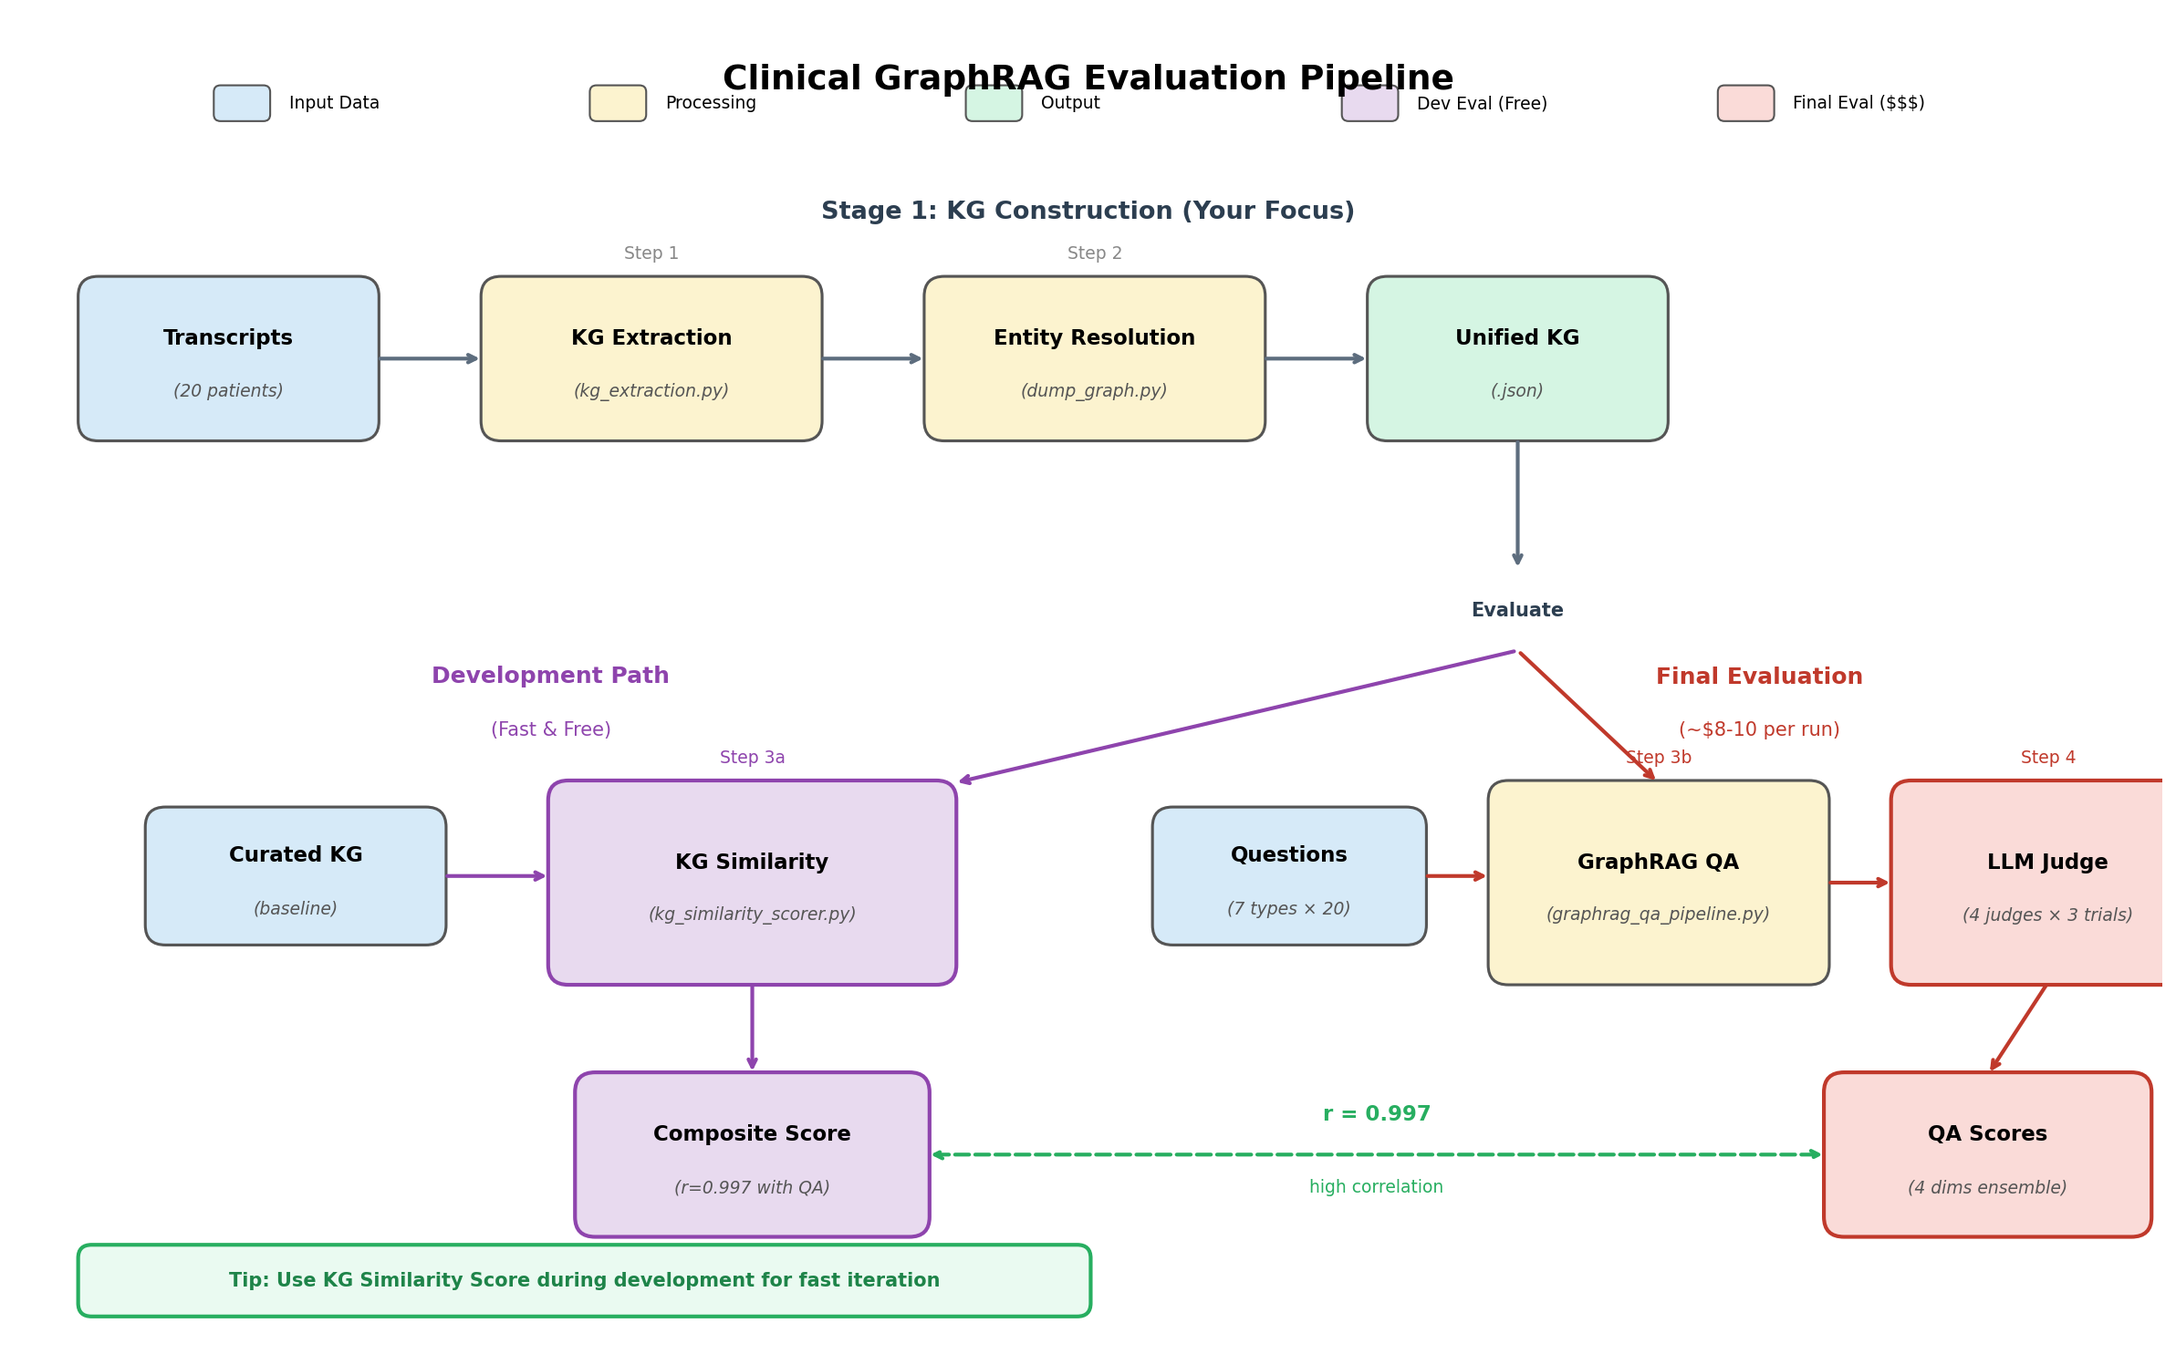
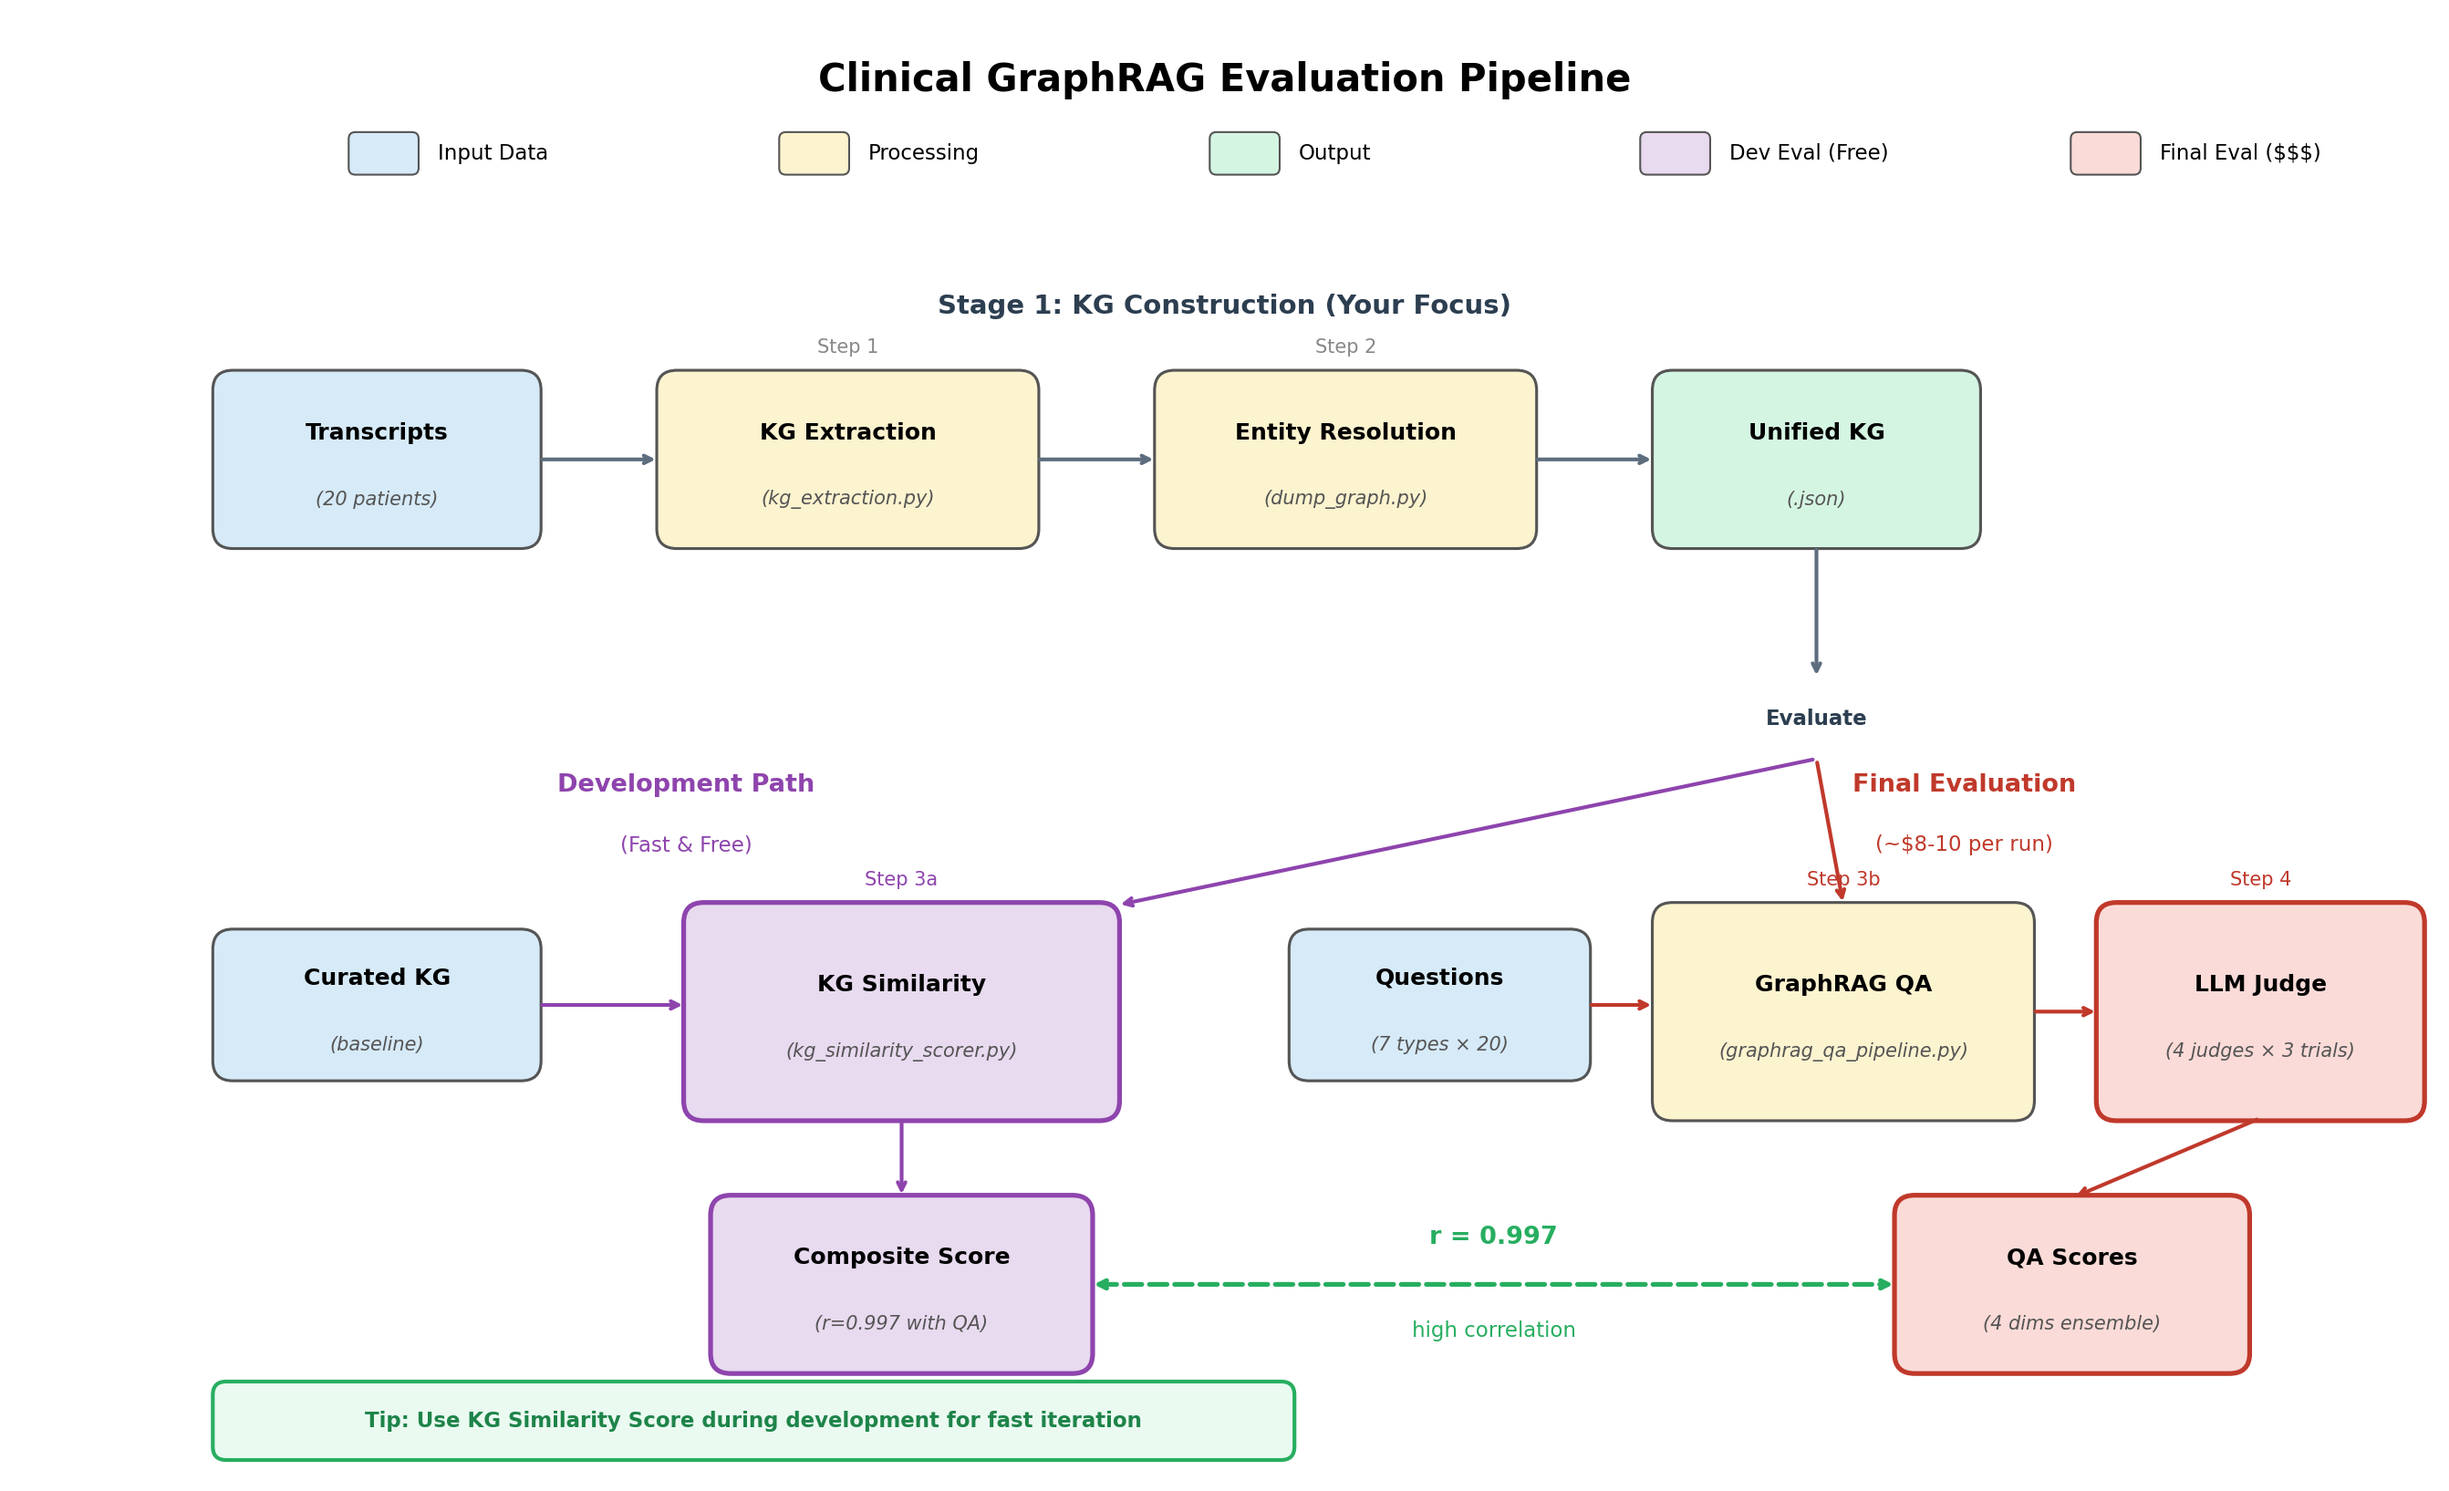
Fix pipeline figure layout and font sizes
- Separate title and legend to avoid overlap
- Increase font sizes for better readability
- Expand canvas to fit all elements without overflow
- Adjust box positions for better spacing

diff --git a/generate_pipeline_figure.py b/generate_pipeline_figure.py
@@ -7,9 +7,9 @@ from matplotlib.patches import FancyBboxPatch, FancyArrowPatch
 import numpy as np
 
 def create_pipeline_figure():
-    fig, ax = plt.subplots(1, 1, figsize=(16, 10))
-    ax.set_xlim(0, 16)
-    ax.set_ylim(0, 10)
+    fig, ax = plt.subplots(1, 1, figsize=(18, 11))
+    ax.set_xlim(0, 18)
+    ax.set_ylim(0, 11)
     ax.axis('off')
 
     # Colors
@@ -28,121 +28,28 @@ def create_pipeline_figure():
                              boxstyle="round,pad=0.02,rounding_size=0.15",
                              facecolor=color,
                              edgecolor=border_color or '#555555',
-                             linewidth=2 if border_color else 1.5)
+                             linewidth=2.5 if border_color else 1.5)
         ax.add_patch(box)
 
         if subtext:
-            ax.text(x + w/2, y + h/2 + 0.15, text, ha='center', va='center',
-                   fontsize=11, fontweight='bold')
-            ax.text(x + w/2, y + h/2 - 0.25, subtext, ha='center', va='center',
-                   fontsize=9, style='italic', color='#555')
+            ax.text(x + w/2, y + h/2 + 0.2, text, ha='center', va='center',
+                   fontsize=12, fontweight='bold')
+            ax.text(x + w/2, y + h/2 - 0.3, subtext, ha='center', va='center',
+                   fontsize=10, style='italic', color='#555')
         else:
             ax.text(x + w/2, y + h/2, text, ha='center', va='center',
-                   fontsize=11, fontweight='bold')
+                   fontsize=12, fontweight='bold')
 
     def draw_arrow(x1, y1, x2, y2, color='#5D6D7E', style='->', linewidth=2):
         ax.annotate('', xy=(x2, y2), xytext=(x1, y1),
                    arrowprops=dict(arrowstyle=style, color=color, lw=linewidth))
 
     # Title
-    ax.text(8, 9.5, 'Clinical GraphRAG Evaluation Pipeline',
-           ha='center', va='center', fontsize=18, fontweight='bold')
+    ax.text(9, 10.5, 'Clinical GraphRAG Evaluation Pipeline',
+           ha='center', va='center', fontsize=20, fontweight='bold')
 
-    # ===== TOP ROW: KG Construction =====
-    ax.text(8, 8.5, 'Stage 1: KG Construction (Your Focus)',
-           ha='center', va='center', fontsize=13, fontweight='bold', color='#2C3E50')
-
-    # Transcripts
-    draw_box(0.5, 6.8, 2.2, 1.2, colors['input'], 'Transcripts', '(20 patients)')
-
-    # KG Extraction
-    draw_box(3.5, 6.8, 2.5, 1.2, colors['process'], 'KG Extraction', '(kg_extraction.py)')
-    ax.text(4.75, 8.15, 'Step 1', ha='center', fontsize=9, color='#888')
-
-    # Entity Resolution
-    draw_box(6.8, 6.8, 2.5, 1.2, colors['process'], 'Entity Resolution', '(dump_graph.py)')
-    ax.text(8.05, 8.15, 'Step 2', ha='center', fontsize=9, color='#888')
-
-    # Unified KG
-    draw_box(10.1, 6.8, 2.2, 1.2, colors['output'], 'Unified KG', '(.json)')
-
-    # Arrows for top row
-    draw_arrow(2.7, 7.4, 3.5, 7.4)
-    draw_arrow(6.0, 7.4, 6.8, 7.4)
-    draw_arrow(9.3, 7.4, 10.1, 7.4)
-
-    # ===== EVALUATION SPLIT =====
-
-    # Vertical arrow down from Unified KG
-    draw_arrow(11.2, 6.8, 11.2, 5.8)
-
-    # Split point text
-    ax.text(11.2, 5.5, 'Evaluate', ha='center', va='center', fontsize=10,
-           fontweight='bold', color='#2C3E50')
-
-    # ===== LEFT BRANCH: Dev Evaluation (Cheap/Fast) =====
-    ax.text(4, 5.0, 'Development Path', ha='center', va='center',
-           fontsize=12, fontweight='bold', color='#8E44AD')
-    ax.text(4, 4.6, '(Fast & Free)', ha='center', va='center',
-           fontsize=10, color='#8E44AD')
-
-    # Curated KG (baseline)
-    draw_box(1.0, 3.0, 2.2, 1.0, colors['input'], 'Curated KG', '(baseline)')
-
-    # KG Similarity Scorer
-    draw_box(4.0, 2.7, 3.0, 1.5, colors['eval_dev'], 'KG Similarity', '(kg_similarity_scorer.py)',
-            border_color='#8E44AD')
-    ax.text(5.5, 4.35, 'Step 3a', ha='center', fontsize=9, color='#8E44AD')
-
-    # KG Score output
-    draw_box(4.2, 0.8, 2.6, 1.2, colors['eval_dev'], 'Composite Score', '(r=0.997 with QA)',
-            border_color='#8E44AD')
-
-    # Arrows for left branch
-    draw_arrow(11.2, 5.2, 7.0, 4.2, color='#8E44AD')  # From split to scorer
-    draw_arrow(3.2, 3.5, 4.0, 3.5, color='#8E44AD')   # Curated to scorer
-    draw_arrow(5.5, 2.7, 5.5, 2.0, color='#8E44AD')   # Scorer to score
-
-    # ===== RIGHT BRANCH: Final Evaluation (Expensive) =====
-    ax.text(13, 5.0, 'Final Evaluation', ha='center', va='center',
-           fontsize=12, fontweight='bold', color='#C0392B')
-    ax.text(13, 4.6, '(~$8-10 per run)', ha='center', va='center',
-           fontsize=10, color='#C0392B')
-
-    # Questions input
-    draw_box(8.5, 3.0, 2.0, 1.0, colors['input'], 'Questions', '(7 types × 20)')
-
-    # GraphRAG QA
-    draw_box(11.0, 2.7, 2.5, 1.5, colors['process'], 'GraphRAG QA', '(graphrag_qa_pipeline.py)')
-    ax.text(12.25, 4.35, 'Step 3b', ha='center', fontsize=9, color='#C0392B')
-
-    # LLM Judge
-    draw_box(14.0, 2.7, 2.3, 1.5, colors['eval_final'], 'LLM Judge', '(4 judges × 3 trials)',
-            border_color='#C0392B')
-    ax.text(15.15, 4.35, 'Step 4', ha='center', fontsize=9, color='#C0392B')
-
-    # QA Scores output
-    draw_box(13.5, 0.8, 2.4, 1.2, colors['eval_final'], 'QA Scores', '(4 dims ensemble)',
-            border_color='#C0392B')
-
-    # Arrows for right branch
-    draw_arrow(11.2, 5.2, 12.25, 4.2, color='#C0392B')  # From split to QA
-    draw_arrow(10.5, 3.5, 11.0, 3.5, color='#C0392B')   # Questions to QA
-    draw_arrow(13.5, 3.45, 14.0, 3.45, color='#C0392B') # QA to Judge
-    draw_arrow(15.15, 2.7, 14.7, 2.0, color='#C0392B')  # Judge to scores
-
-    # ===== Correlation indicator =====
-    # Dashed line showing correlation between two scores
-    ax.annotate('', xy=(13.5, 1.4), xytext=(6.8, 1.4),
-               arrowprops=dict(arrowstyle='<->', color=colors['correlation'],
-                              lw=2, linestyle='--'))
-    ax.text(10.15, 1.7, 'r = 0.997', ha='center', va='center', fontsize=11,
-           fontweight='bold', color=colors['correlation'])
-    ax.text(10.15, 1.15, 'high correlation', ha='center', va='center', fontsize=9,
-           color=colors['correlation'])
-
-    # ===== Legend =====
-    legend_y = 9.2
+    # ===== Legend (below title) =====
+    legend_y = 9.8
     legend_items = [
         (colors['input'], 'Input Data'),
         (colors['process'], 'Processing'),
@@ -152,20 +59,113 @@ def create_pipeline_figure():
     ]
 
     for i, (color, label) in enumerate(legend_items):
-        x = 1.5 + i * 2.8
-        box = FancyBboxPatch((x, legend_y), 0.4, 0.25,
+        x = 2.5 + i * 3.2
+        box = FancyBboxPatch((x, legend_y), 0.5, 0.3,
                              boxstyle="round,pad=0.01,rounding_size=0.05",
                              facecolor=color, edgecolor='#555555', linewidth=1)
         ax.add_patch(box)
-        ax.text(x + 0.55, legend_y + 0.12, label, ha='left', va='center', fontsize=9)
+        ax.text(x + 0.65, legend_y + 0.15, label, ha='left', va='center', fontsize=11)
+
+    # ===== TOP ROW: KG Construction =====
+    ax.text(9, 8.8, 'Stage 1: KG Construction (Your Focus)',
+           ha='center', va='center', fontsize=14, fontweight='bold', color='#2C3E50')
+
+    # Transcripts
+    draw_box(1.5, 7.0, 2.4, 1.3, colors['input'], 'Transcripts', '(20 patients)')
+
+    # KG Extraction
+    draw_box(4.8, 7.0, 2.8, 1.3, colors['process'], 'KG Extraction', '(kg_extraction.py)')
+    ax.text(6.2, 8.45, 'Step 1', ha='center', fontsize=10, color='#888')
+
+    # Entity Resolution
+    draw_box(8.5, 7.0, 2.8, 1.3, colors['process'], 'Entity Resolution', '(dump_graph.py)')
+    ax.text(9.9, 8.45, 'Step 2', ha='center', fontsize=10, color='#888')
+
+    # Unified KG
+    draw_box(12.2, 7.0, 2.4, 1.3, colors['output'], 'Unified KG', '(.json)')
+
+    # Arrows for top row
+    draw_arrow(3.9, 7.65, 4.8, 7.65)
+    draw_arrow(7.6, 7.65, 8.5, 7.65)
+    draw_arrow(11.3, 7.65, 12.2, 7.65)
+
+    # ===== EVALUATION SPLIT =====
+
+    # Vertical arrow down from Unified KG
+    draw_arrow(13.4, 7.0, 13.4, 6.0)
+
+    # Split point text
+    ax.text(13.4, 5.7, 'Evaluate', ha='center', va='center', fontsize=11,
+           fontweight='bold', color='#2C3E50')
+
+    # ===== LEFT BRANCH: Dev Evaluation (Cheap/Fast) =====
+    ax.text(5, 5.2, 'Development Path', ha='center', va='center',
+           fontsize=13, fontweight='bold', color='#8E44AD')
+    ax.text(5, 4.75, '(Fast & Free)', ha='center', va='center',
+           fontsize=11, color='#8E44AD')
+
+    # Curated KG (baseline)
+    draw_box(1.5, 3.0, 2.4, 1.1, colors['input'], 'Curated KG', '(baseline)')
+
+    # KG Similarity Scorer
+    draw_box(5.0, 2.7, 3.2, 1.6, colors['eval_dev'], 'KG Similarity', '(kg_similarity_scorer.py)',
+            border_color='#8E44AD')
+    ax.text(6.6, 4.45, 'Step 3a', ha='center', fontsize=10, color='#8E44AD')
+
+    # KG Score output
+    draw_box(5.2, 0.8, 2.8, 1.3, colors['eval_dev'], 'Composite Score', '(r=0.997 with QA)',
+            border_color='#8E44AD')
+
+    # Arrows for left branch
+    draw_arrow(13.4, 5.4, 8.2, 4.3, color='#8E44AD')  # From split to scorer
+    draw_arrow(3.9, 3.55, 5.0, 3.55, color='#8E44AD')   # Curated to scorer
+    draw_arrow(6.6, 2.7, 6.6, 2.1, color='#8E44AD')   # Scorer to score
+
+    # ===== RIGHT BRANCH: Final Evaluation (Expensive) =====
+    ax.text(14.5, 5.2, 'Final Evaluation', ha='center', va='center',
+           fontsize=13, fontweight='bold', color='#C0392B')
+    ax.text(14.5, 4.75, '(~$8-10 per run)', ha='center', va='center',
+           fontsize=11, color='#C0392B')
+
+    # Questions input
+    draw_box(9.5, 3.0, 2.2, 1.1, colors['input'], 'Questions', '(7 types × 20)')
+
+    # GraphRAG QA
+    draw_box(12.2, 2.7, 2.8, 1.6, colors['process'], 'GraphRAG QA', '(graphrag_qa_pipeline.py)')
+    ax.text(13.6, 4.45, 'Step 3b', ha='center', fontsize=10, color='#C0392B')
+
+    # LLM Judge
+    draw_box(15.5, 2.7, 2.4, 1.6, colors['eval_final'], 'LLM Judge', '(4 judges × 3 trials)',
+            border_color='#C0392B')
+    ax.text(16.7, 4.45, 'Step 4', ha='center', fontsize=10, color='#C0392B')
+
+    # QA Scores output
+    draw_box(14.0, 0.8, 2.6, 1.3, colors['eval_final'], 'QA Scores', '(4 dims ensemble)',
+            border_color='#C0392B')
+
+    # Arrows for right branch
+    draw_arrow(13.4, 5.4, 13.6, 4.3, color='#C0392B')  # From split to QA
+    draw_arrow(11.7, 3.55, 12.2, 3.55, color='#C0392B')   # Questions to QA
+    draw_arrow(15.0, 3.5, 15.5, 3.5, color='#C0392B') # QA to Judge
+    draw_arrow(16.7, 2.7, 15.3, 2.1, color='#C0392B')  # Judge to scores
+
+    # ===== Correlation indicator =====
+    # Dashed line showing correlation between two scores
+    ax.annotate('', xy=(14.0, 1.45), xytext=(8.0, 1.45),
+               arrowprops=dict(arrowstyle='<->', color=colors['correlation'],
+                              lw=2.5, linestyle='--'))
+    ax.text(11.0, 1.8, 'r = 0.997', ha='center', va='center', fontsize=13,
+           fontweight='bold', color=colors['correlation'])
+    ax.text(11.0, 1.1, 'high correlation', ha='center', va='center', fontsize=11,
+           color=colors['correlation'])
 
     # ===== Recommendation box =====
-    rec_box = FancyBboxPatch((0.5, 0.2), 7.5, 0.5,
+    rec_box = FancyBboxPatch((1.5, 0.15), 8.0, 0.55,
                              boxstyle="round,pad=0.02,rounding_size=0.1",
                              facecolor='#EAFAF1', edgecolor='#27AE60', linewidth=2)
     ax.add_patch(rec_box)
-    ax.text(4.25, 0.45, 'Tip: Use KG Similarity Score during development for fast iteration',
-           ha='center', va='center', fontsize=10, color='#1E8449', fontweight='bold')
+    ax.text(5.5, 0.42, 'Tip: Use KG Similarity Score during development for fast iteration',
+           ha='center', va='center', fontsize=11, color='#1E8449', fontweight='bold')
 
     plt.tight_layout()
     plt.savefig('figures/pipeline_overview.png', dpi=150, bbox_inches='tight',
